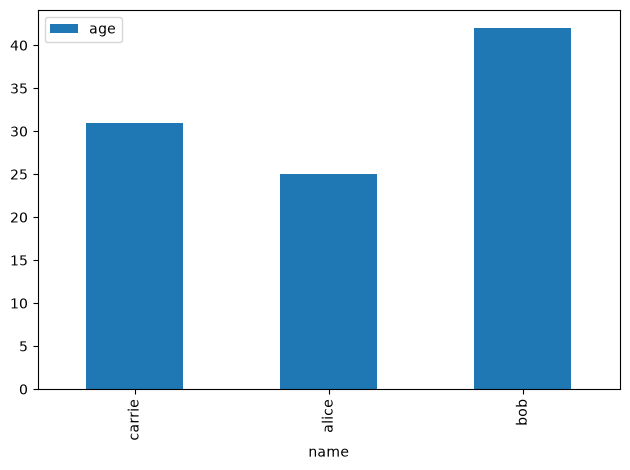
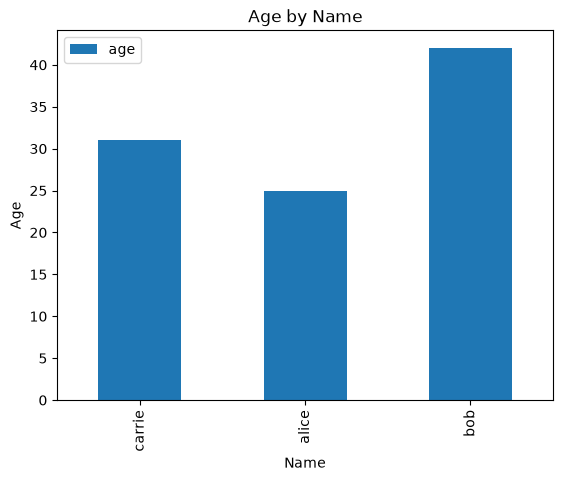
Build: Packaged multi-agent R&D visualization crew into an interactive Streamlit Web App

diff --git a/main.py b/main.py
@@ -6,6 +6,9 @@ import matplotlib.pyplot as plt # Native import to help the visualizer agent sta
 from dotenv import load_dotenv
 from groq import Groq
 
+import matplotlib
+matplotlib.use('Agg') # 🛡 CRITICAL SAFESTACK: Forces headless image compiling, stopping asyncio freezes on Python 3.14!
+
 load_dotenv()
 
 # ==========================================
